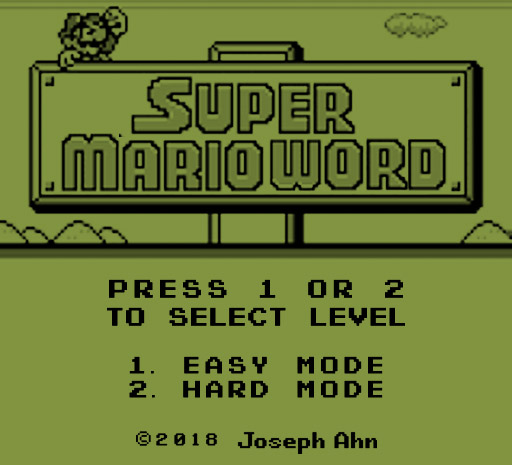
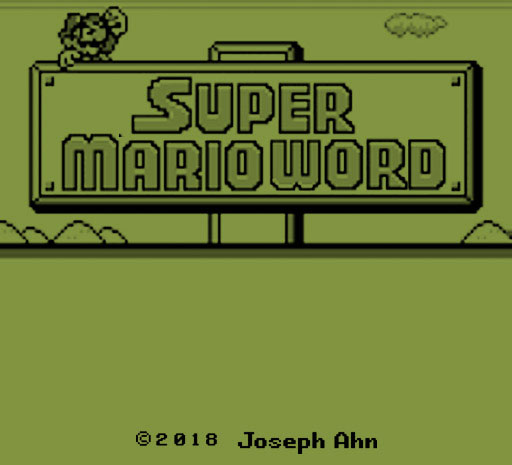
minor update

diff --git a/assets/javascript/game.js b/assets/javascript/game.js
@@ -50,8 +50,8 @@ function reset() {
     // reset the screen
     userHP.innerHTML = "";
     comHP.innerHTML = "";
-    displayAnswer.innerHTML = "";
     displayMessage.innerHTML = "";
+    displayAnswer.innerHTML = "<div id='opening'>Press 1 or 2<br>to select level<br><br>1. Easy Mode<br>2. Hard Mode</div>";
     screenImg("url('./assets/images/start.jpg')");
 
     //reset the sound
@@ -73,7 +73,7 @@ function screenImg(imgURL) {
 
 // Display game status
 function displayStatus() {
-    userHP.innerHTML = "MARIO's<br>Life x" + remainingChances;
+    userHP.innerHTML = "Mario's<br>Life x" + remainingChances;
     comHP.innerHTML = "Bricks<br>Left x" + remainingLetters;
     displayAnswer.innerHTML = wordGuess;
     if (gameStatus === "start") {

diff --git a/assets/css/style.css b/assets/css/style.css
@@ -62,6 +62,11 @@ h1 {
     height: 465px;
 }
 
+#opening {
+    padding-top: 62px;
+    font-size: 26px;
+}
+
 #user {
     float: left;
     margin: 10px 15px;
